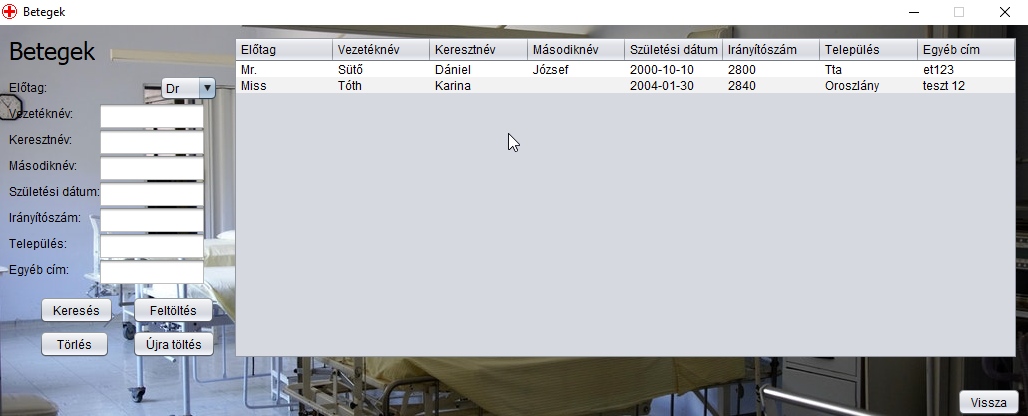
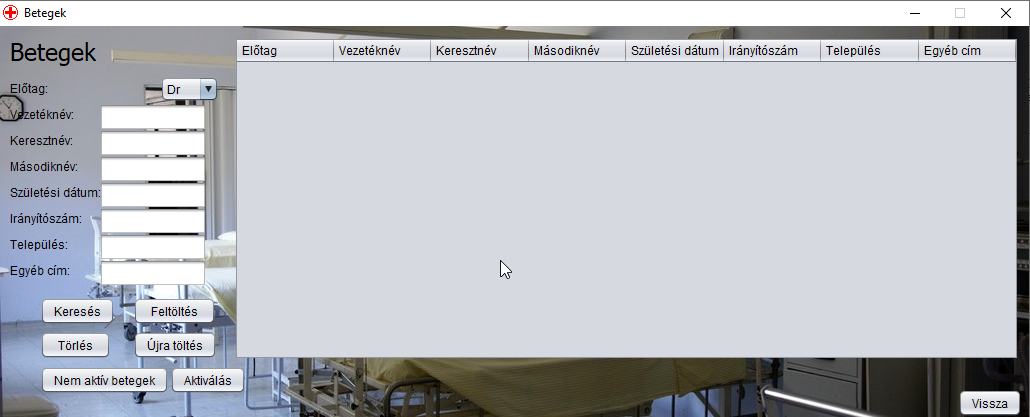
Betegek ablak átdolgozása

diff --git a/Szakdolgozat/src/szakdolgozat/patiens.java b/Szakdolgozat/src/szakdolgozat/patiens.java
@@ -30,12 +30,18 @@ public class patiens extends javax.swing.JFrame {
         switch (id) { //Jogok szerinti gombok megjelenítése
             case 2:
                 delete.setVisible(false);
+                activate.setVisible(false);
+                nonactive.setVisible(false);
                 break;
             case 3:
+                nonactive.setVisible(false);
+                activate.setVisible(false);
                 upload.setVisible(false);
                 delete.setVisible(false);
                 break;
             case 5:
+                nonactive.setVisible(false);
+                activate.setVisible(false);
                 upload.setVisible(false);
                 delete.setVisible(false);
                 break;
